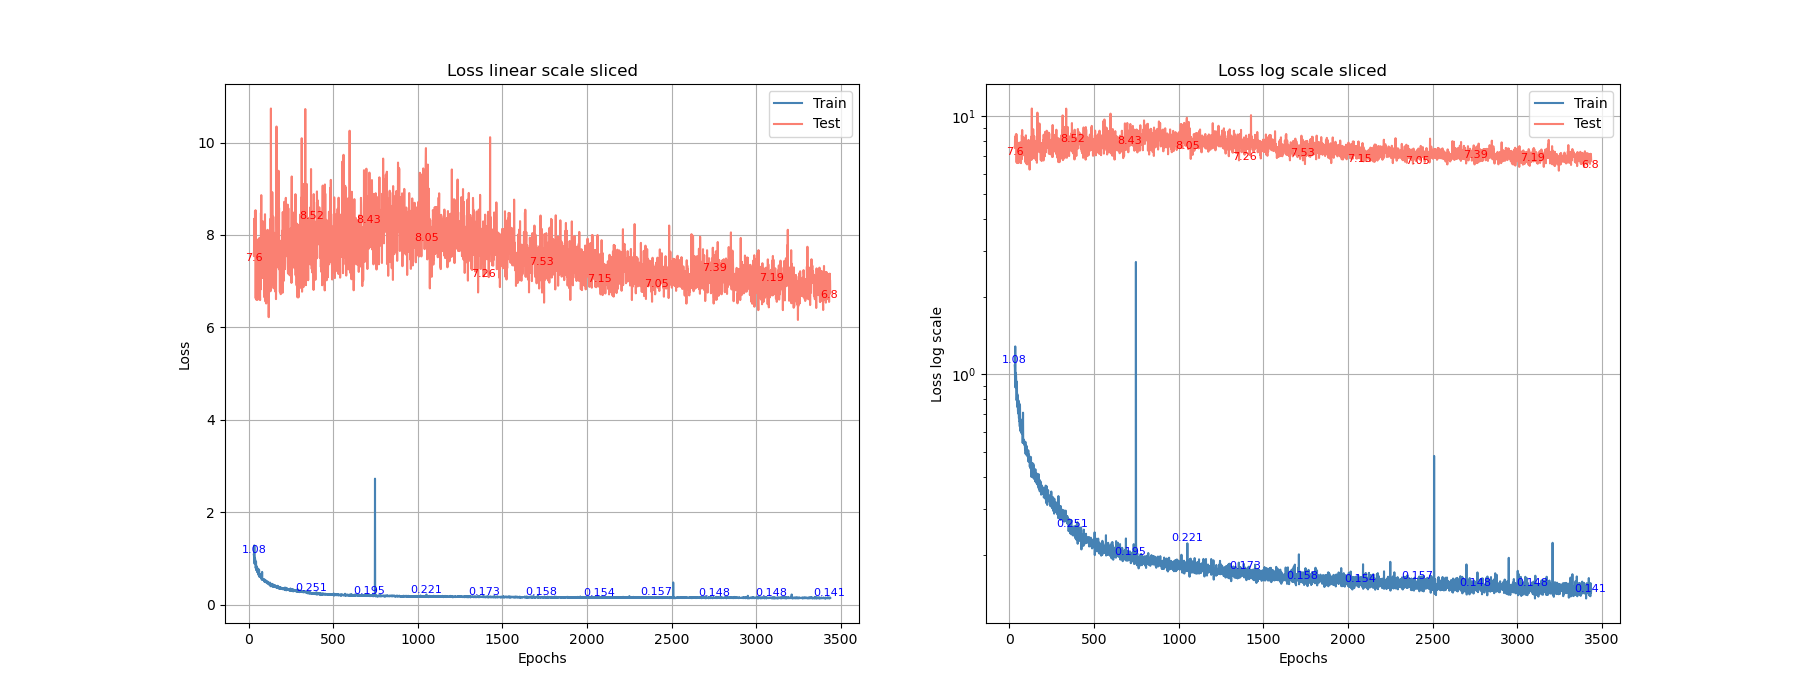
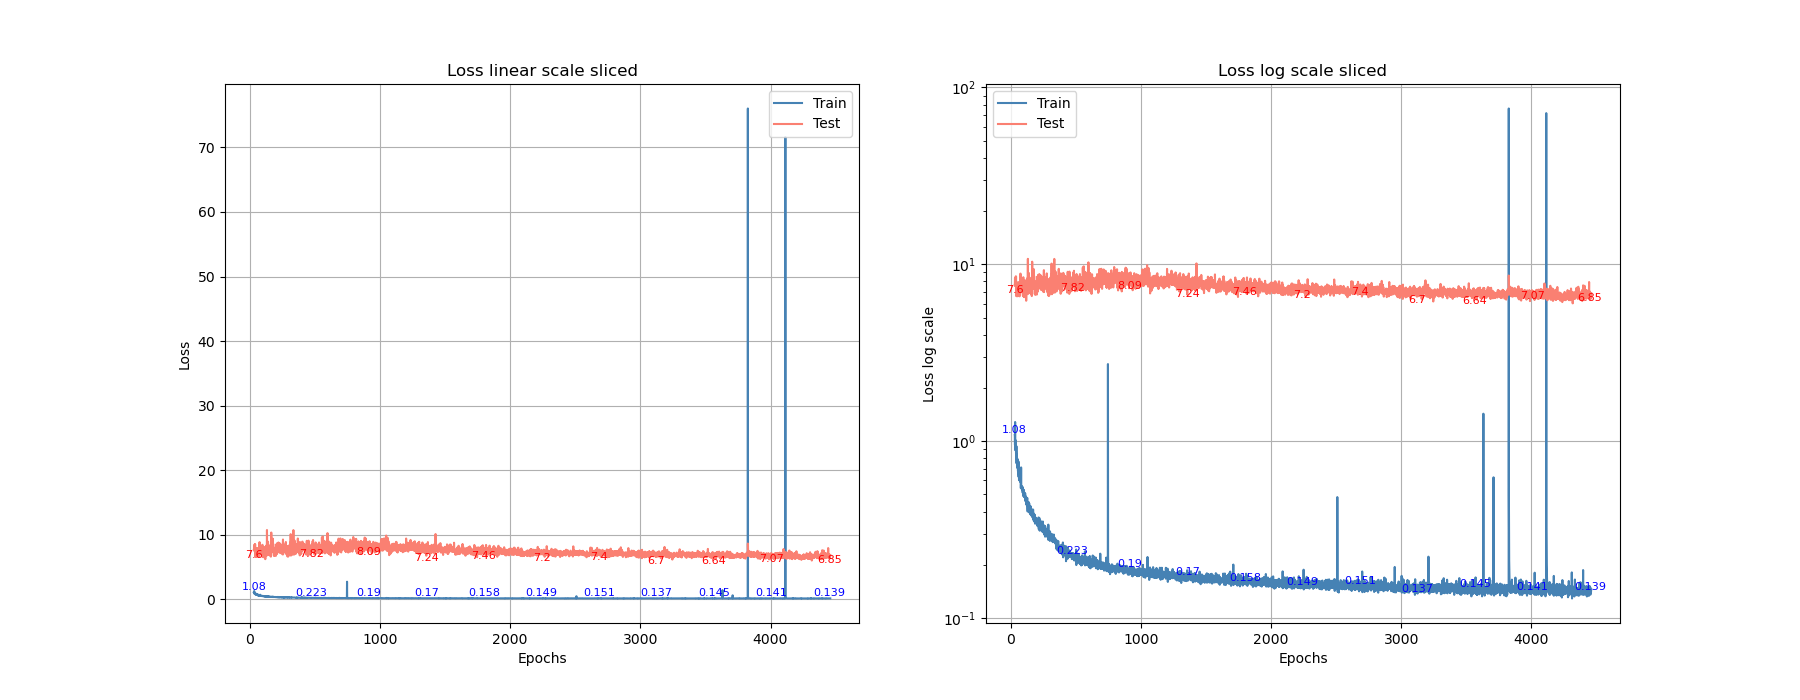
.

diff --git a/Dataset.py b/Dataset.py
@@ -205,6 +205,69 @@ def get_dataloaders_RealEstate(train_num_sequences, batch_size):
 
     return train_loader, val_loader, test_loader
 
+
+def get_dataloaders_RealEstate_split(batch_size):
+    RealEstate_paths = ['RealEstate10K/train_images', 'RealEstate10K/val_images']
+    train_datasets, val_datasets, test_datasets = [], [], []
+    for jump_frames in [JUMP_FRAMES]:
+        for RealEstate_path in RealEstate_paths:
+            for i, sequence_name in enumerate(os.listdir(RealEstate_path)): 
+                specs_path = os.path.join(RealEstate_path, sequence_name, f'{sequence_name}.txt')
+                sequence_path = os.path.join(RealEstate_path, sequence_name, 'image_0')
+
+                # Get a list of all poses [R,t] in this sequence
+                poses = read_poses(specs_path).to(device)
+
+                # Indices of 'good' image frames
+                valid_indices = get_valid_indices(len(poses), sequence_path, jump_frames)
+
+                # Get projection matrix from calib.txt, compute intrinsic K, and adjust K according to transformations
+                original_image_size = torch.tensor(Image.open(os.path.join(sequence_path, f'{valid_indices[0]:06}.{IMAGE_TYPE}')).size).to(device)
+                K = get_intrinsic_REALESTATE(specs_path, original_image_size, adjust_resize=False)
+                K_resized = get_intrinsic_REALESTATE(specs_path, original_image_size, adjust_resize=True)
+
+                train_length = int(RL_TRAIN_LENGTH_RATIO * len(valid_indices))
+                test_val_split = (len(valid_indices) - train_length)//2 + train_length
+                train_subset = valid_indices[:train_length]
+                val_subset = valid_indices[train_length:test_val_split]
+                test_subset = valid_indices[test_val_split:]
+
+                img0_train = {idx: torchvision.io.read_image(os.path.join(sequence_path, f'{idx:06}.{IMAGE_TYPE}')).to(device) for idx in train_subset} if INIT_DATA else None    
+                img1_train = {idx: torchvision.io.read_image(os.path.join(sequence_path, f'{idx+jump_frames:06}.{IMAGE_TYPE}')).to(device) for idx in train_subset} if INIT_DATA else None    
+
+                img0_val = {idx: torchvision.io.read_image(os.path.join(sequence_path, f'{idx:06}.{IMAGE_TYPE}')).to(device) for idx in val_subset} if INIT_DATA else None    
+                img1_val = {idx: torchvision.io.read_image(os.path.join(sequence_path, f'{idx+jump_frames:06}.{IMAGE_TYPE}')).to(device) for idx in val_subset} if INIT_DATA else None    
+
+                img0_test = {idx: torchvision.io.read_image(os.path.join(sequence_path, f'{idx:06}.{IMAGE_TYPE}')).to(device) for idx in test_subset} if INIT_DATA else None    
+                img1_test = {idx: torchvision.io.read_image(os.path.join(sequence_path, f'{idx+jump_frames:06}.{IMAGE_TYPE}')).to(device) for idx in train_subset} if INIT_DATA else None    
+
+                keypoints_dict = load_keypoints(os.path.join(os.path.dirname(sequence_path), 'keypoints.txt'))
+
+                dataset_train = Dataset(sequence_path, poses, img0_train, img1_train, train_subset, keypoints_dict, transform, K, K_resized, seq_name=sequence_name, jump_frames=jump_frames)
+                dataset_val = Dataset(sequence_path, poses, img0_val, img1_val, val_subset, keypoints_dict, transform, K, K_resized, seq_name=sequence_name, jump_frames=jump_frames)
+                dataset_test = Dataset(sequence_path, poses, img0_test, img1_test, test_subset, keypoints_dict, transform, K, K_resized, seq_name=sequence_name, jump_frames=jump_frames)
+
+                if len(dataset_train) > 9:
+                    train_datasets.append(dataset_train) 
+                    val_datasets.append(dataset_val)
+                    test_datasets.append(dataset_test)
+                else: 
+                    print(f"Empty dataset at {RealEstate_path}, {sequence_name}: {len(dataset_train)}")
+
+    # Concatenate datasets
+    concat_train_dataset = ConcatDataset(train_datasets)
+    concat_val_dataset = ConcatDataset(val_datasets)
+    concat_test_dataset = ConcatDataset(test_datasets)
+
+    # Create a DataLoader
+    train_loader = DataLoader(concat_train_dataset, batch_size=batch_size, shuffle=True, num_workers=NUM_WORKERS, pin_memory=False, collate_fn=custom_collate_fn)
+    val_loader = DataLoader(concat_val_dataset, batch_size=batch_size, shuffle=False, num_workers=NUM_WORKERS, pin_memory=False, collate_fn=custom_collate_fn)
+    test_loader = DataLoader(concat_test_dataset, batch_size=batch_size, shuffle=False, num_workers=NUM_WORKERS, pin_memory=False, collate_fn=custom_collate_fn)
+    
+    print(len(train_loader), len(val_loader), len(test_loader))
+
+    return train_loader, val_loader, test_loader
+
 # def get_dataloaders_KITTI(data_ratio, batch_size):
 #     sequence_paths = [f'sequences/0{i}' for i in range(11)]
 #     poses_paths = [f'poses/0{i}.txt' for i in range(11)]
@@ -306,7 +369,10 @@ def get_data_loaders(train_size=None, part=None, batch_size=BATCH_SIZE):
     if STEREO:
         return get_dataloader_stereo(train_size, part, batch_size)
     elif USE_REALESTATE:
-        return get_dataloaders_RealEstate(train_size, batch_size)
+        if REALESTATE_SPLIT:
+            return get_dataloaders_RealEstate_split(batch_size=batch_size)
+        else:
+            return get_dataloaders_RealEstate(train_size, batch_size)
     else: # KITTI
         # return get_dataloaders_KITTI(train_size, batch_size)
         return None

diff --git a/params.py b/params.py
@@ -1,6 +1,5 @@
 import torch
 device = torch.device(f"cuda" if torch.cuda.is_available() else "cpu")
-# 2846108 is oldies
 
 ###########################################  OFIR   #################################################################################
 option = 1      # 1 = clip, 2 = resnet
@@ -51,24 +50,21 @@ computer = 1    # 1 = 250, 2 = 146
 # For RealEstate you can try freezing layers, playing with the learning rate or trying pretrained ViT on affine task (if its better in kitti stereo), or increasing the train size
 
 
-# SEQ_RATIOS = [0.025, 0.0375] if computer==1 else [0.05, 0.1, 0.2]     # 3251, 2166, 1082, 540, 405, 269
-SEQ_RATIOS = [0.025, 0.0375, 0.05, 0.1, 0.2, 0.3]
-# SEED = [42, 300, 500]
-SEED = [42]
+SEQ_RATIOS = [0.025, 0.0375] if computer==1 else [0.05, 0.1, 0.2]     # 3251, 2166, 1082, 540, 405, 269
+SEED = [42, 300, 500]
 LR = [1e-4]             
 
 RESNET_MODEL_NAME = 'microsoft/resnet-152'
 CLIP_MODEL_NAME = "openai/clip-vit-base-patch32"
 MODEL = CLIP_MODEL_NAME if option==1 else RESNET_MODEL_NAME
-USE_REALESTATE = False
-STEREO = True
-RL_TRAIN_NUM = [80]   #  14=1872  #  18=2136  #  20=2368  #  50=6560
+USE_REALESTATE = True
+REALESTATE_SPLIT = True
+STEREO = False
+RL_TRAIN_NUM = [50]   #  14=1872  #  18=2136  #  20=2368  #  50=6560
 INIT_DATA = True 
-TRAINED_VIT = None
-# TRAINED_VIT = None if MODEL==RESNET_MODEL_NAME or USE_REALESTATE else "plots/Affine/BS_32__lr_6e-05__train_size_9216__CLIP__alpha_10__conv__original_rotated/model.pth" # This is for when wanting to fine-tune an already trained vit (for example fine-tuning a vit which had been trained on the affine transfomration task)
-# FROZEN_LAYERS = [0] if MODEL==RESNET_MODEL_NAME or USE_REALESTATE else [0, 4] # SET TO 0 IF RESNET!
-FROZEN_LAYERS = [0, 4, 8]
-BATCH_SIZE = [4, 8]                                                          
+TRAINED_VIT = None if MODEL==RESNET_MODEL_NAME or USE_REALESTATE else "plots/Affine/BS_32__lr_6e-05__train_size_9216__CLIP__alpha_10__conv__original_rotated/model.pth" # This is for when wanting to fine-tune an already trained vit (for example fine-tuning a vit which had been trained on the affine transfomration task)
+FROZEN_LAYERS = [0] if MODEL==RESNET_MODEL_NAME or USE_REALESTATE else [0, 4] # SET TO 0 IF RESNET!
+
 
 
 
@@ -134,12 +130,13 @@ PART = ["head", "mid", "tail"]
 ### RealEstate ###
 RL_TEST_NAMES = ["fe2fadf89a84e92a", "f01e8b6f8e10fdd9", "f1ee9dc6135e5307", "a41df4fa06fd391b", "bc0ebb7482f14795", "9bdd34e784c04e3a", "98ebee1c36ecec55"]  # val 656, test 704
 JUMP_FRAMES = 6 
+RL_TRAIN_LENGTH_RATIO = 0.7
 
 ### Training ###
 MIN_LR = 2e-5
 SCHED = None
 USE_RECONSTRUCTION_LAYER = True
-# BATCH_SIZE = [8]                                                          
+BATCH_SIZE = [8]                                                          
 NORM = True
 TRAIN_FROM_SCRATCH = False
 IMAGE_TYPE = "jpg" if USE_REALESTATE else "png"

diff --git a/Main.py b/Main.py
@@ -48,13 +48,13 @@ if __name__ == "__main__":
                 if STEREO:
                         num_epochs = 2002 if train_size==0.3 else 3002 if train_size==0.2 else 4002 if train_size==0.1 else 5502 if train_size==0.05 else 10009 if train_size==0.0375 else 14013 if train_size==0.025 else 0
                 elif USE_REALESTATE:
-                        num_epochs = 10000 
+                        num_epochs = 5000 
                 if num_epochs == 0:
                         print("Invalid data ratio")
                         continue
 
                 coeff = f'ALG_sqr_{alg_coeff}__' if alg_coeff > 0 else f'RE1_{re1_coeff}__' if re1_coeff > 0 else f'SED_{sed_coeff}__' if sed_coeff > 0 else ''
-                dataset = 'Stereo' if STEREO else 'RealEstate' if USE_REALESTATE else 'KITTI_RightCamVal' if RIGHTCAMVAL else 'KITTI'
+                dataset = 'Stereo' if STEREO else 'RealEstate' if USE_REALESTATE else 'RealEstate_split' if USE_REALESTATE and REALESTATE_SPLIT else 'KITTI_RightCamVal' if RIGHTCAMVAL else 'KITTI'
                 scratch = 'Scratch__' if TRAIN_FROM_SCRATCH else ''
                 enlarged_clip = 'Enlarged__' if MODEL == "openai/clip-vit-large-patch14" else ""
                 model = "CLIP" if MODEL == CLIP_MODEL_NAME else "Resnet" if MODEL == RESNET_MODEL_NAME else "Google ViT" 

diff --git a/PlotFromText.py b/PlotFromText.py
@@ -128,6 +128,3 @@ if __name__ == "__main__":
         plot_parameter(epochs, alg_sqr_dists, val_alg_sqr_dists, "Algebraic Sqr Distance", plots_path, save=save)
     except: 
         pass
-    
-    # 0.06348117679357529 0.8128136677212185 0.8167292144563463 1.8715625296698675
-    # 0.060137820690870286 0.7785132913028494 0.7836507786021514 1.742485699373133
